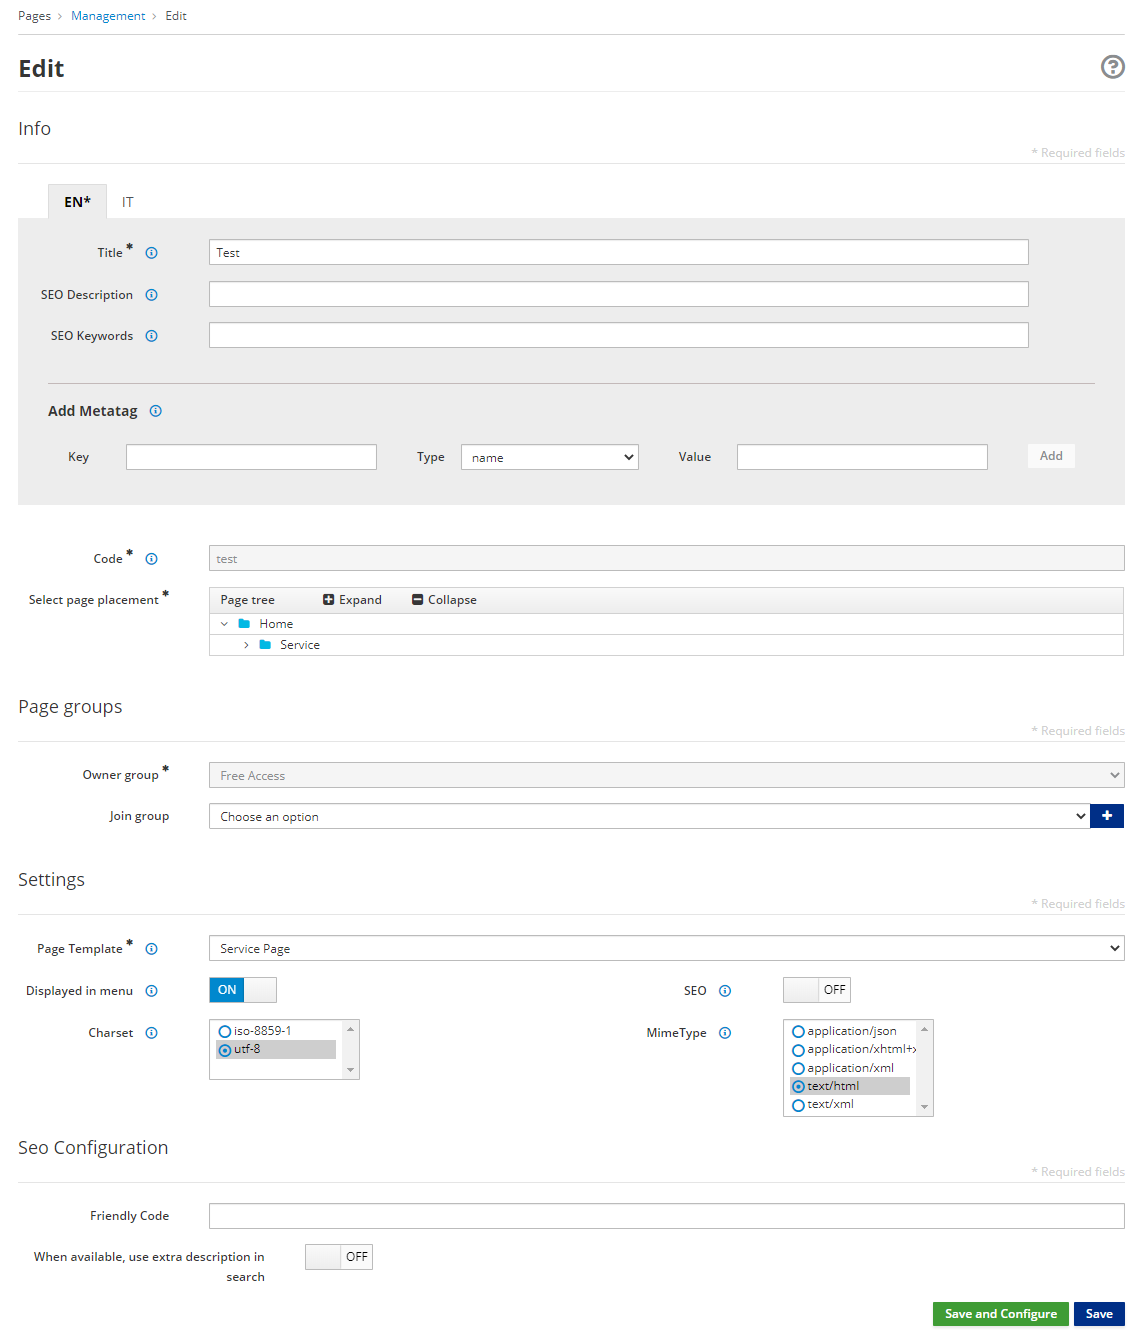
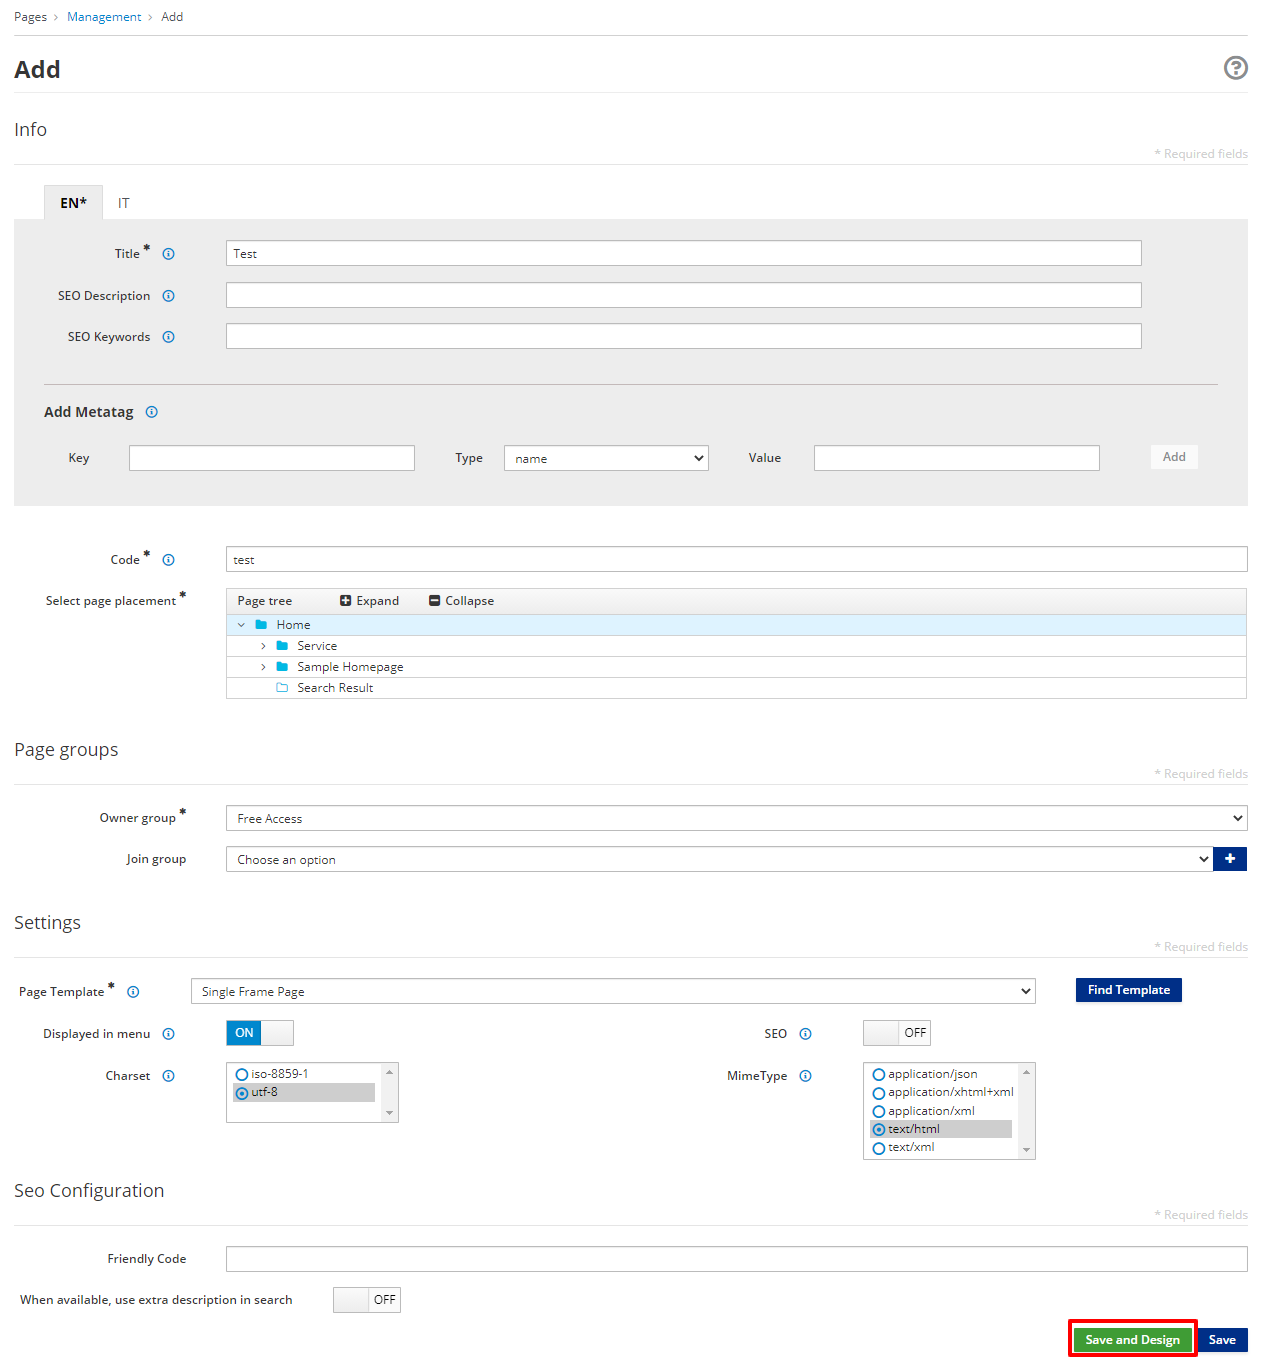
ENDOC-90 Refine screenshots for page mgmt

diff --git a/vuepress/docs/next/tutorials/cms/page-management.md b/vuepress/docs/next/tutorials/cms/page-management.md
@@ -13,26 +13,20 @@ The App Builder provides the capability to publish application pages containing 
 
 ![image](./extracted-media/media/Publish1.png)
 
-A page must have a title, a code, a placement in the page tree, an owner
-group, a join group and a page template. When you create a new page, you
-must:
-
--   Provide a title and a code in the Info section.
-
--   Provide, selecting them from the dropdown menus, an Owner Group and, optionally,
-    a Join Group in the Page Groups section,
-
--   Select a Page Template from the available templates.
+You will need to supply at least the following fields:
+- `Title`: used for SEO
+- `Code`: must be unique
+- `Page placement`: the location of the Page in the Page Tree
+- `Owner Group`: the Group that has access to the Page
+- `Page Template`: the structure and presentation of the Page
 
 ![image](./extracted-media/media/Publish2.png)
 
--   Click the green **Save and Configure** button. This brings you to
-    the configuration section, which lists all the frames defined in the
-    page template you associated with that page.
+-   Click the green **Save and Design** button. This brings you to the Designer section which lets you place widgets into the Page Template frames.
 
 ![image](./extracted-media/media/Publish3.png)
 
--   Add widgets by dragging them from the right column on to the desired frame. 
+-   Add widgets by dragging them from the right column into the desired frame. 
 -   If you select the **Content** widget, its corresponding settings page will be shown.
 
 ![image](./extracted-media/media/Publish4.png)
